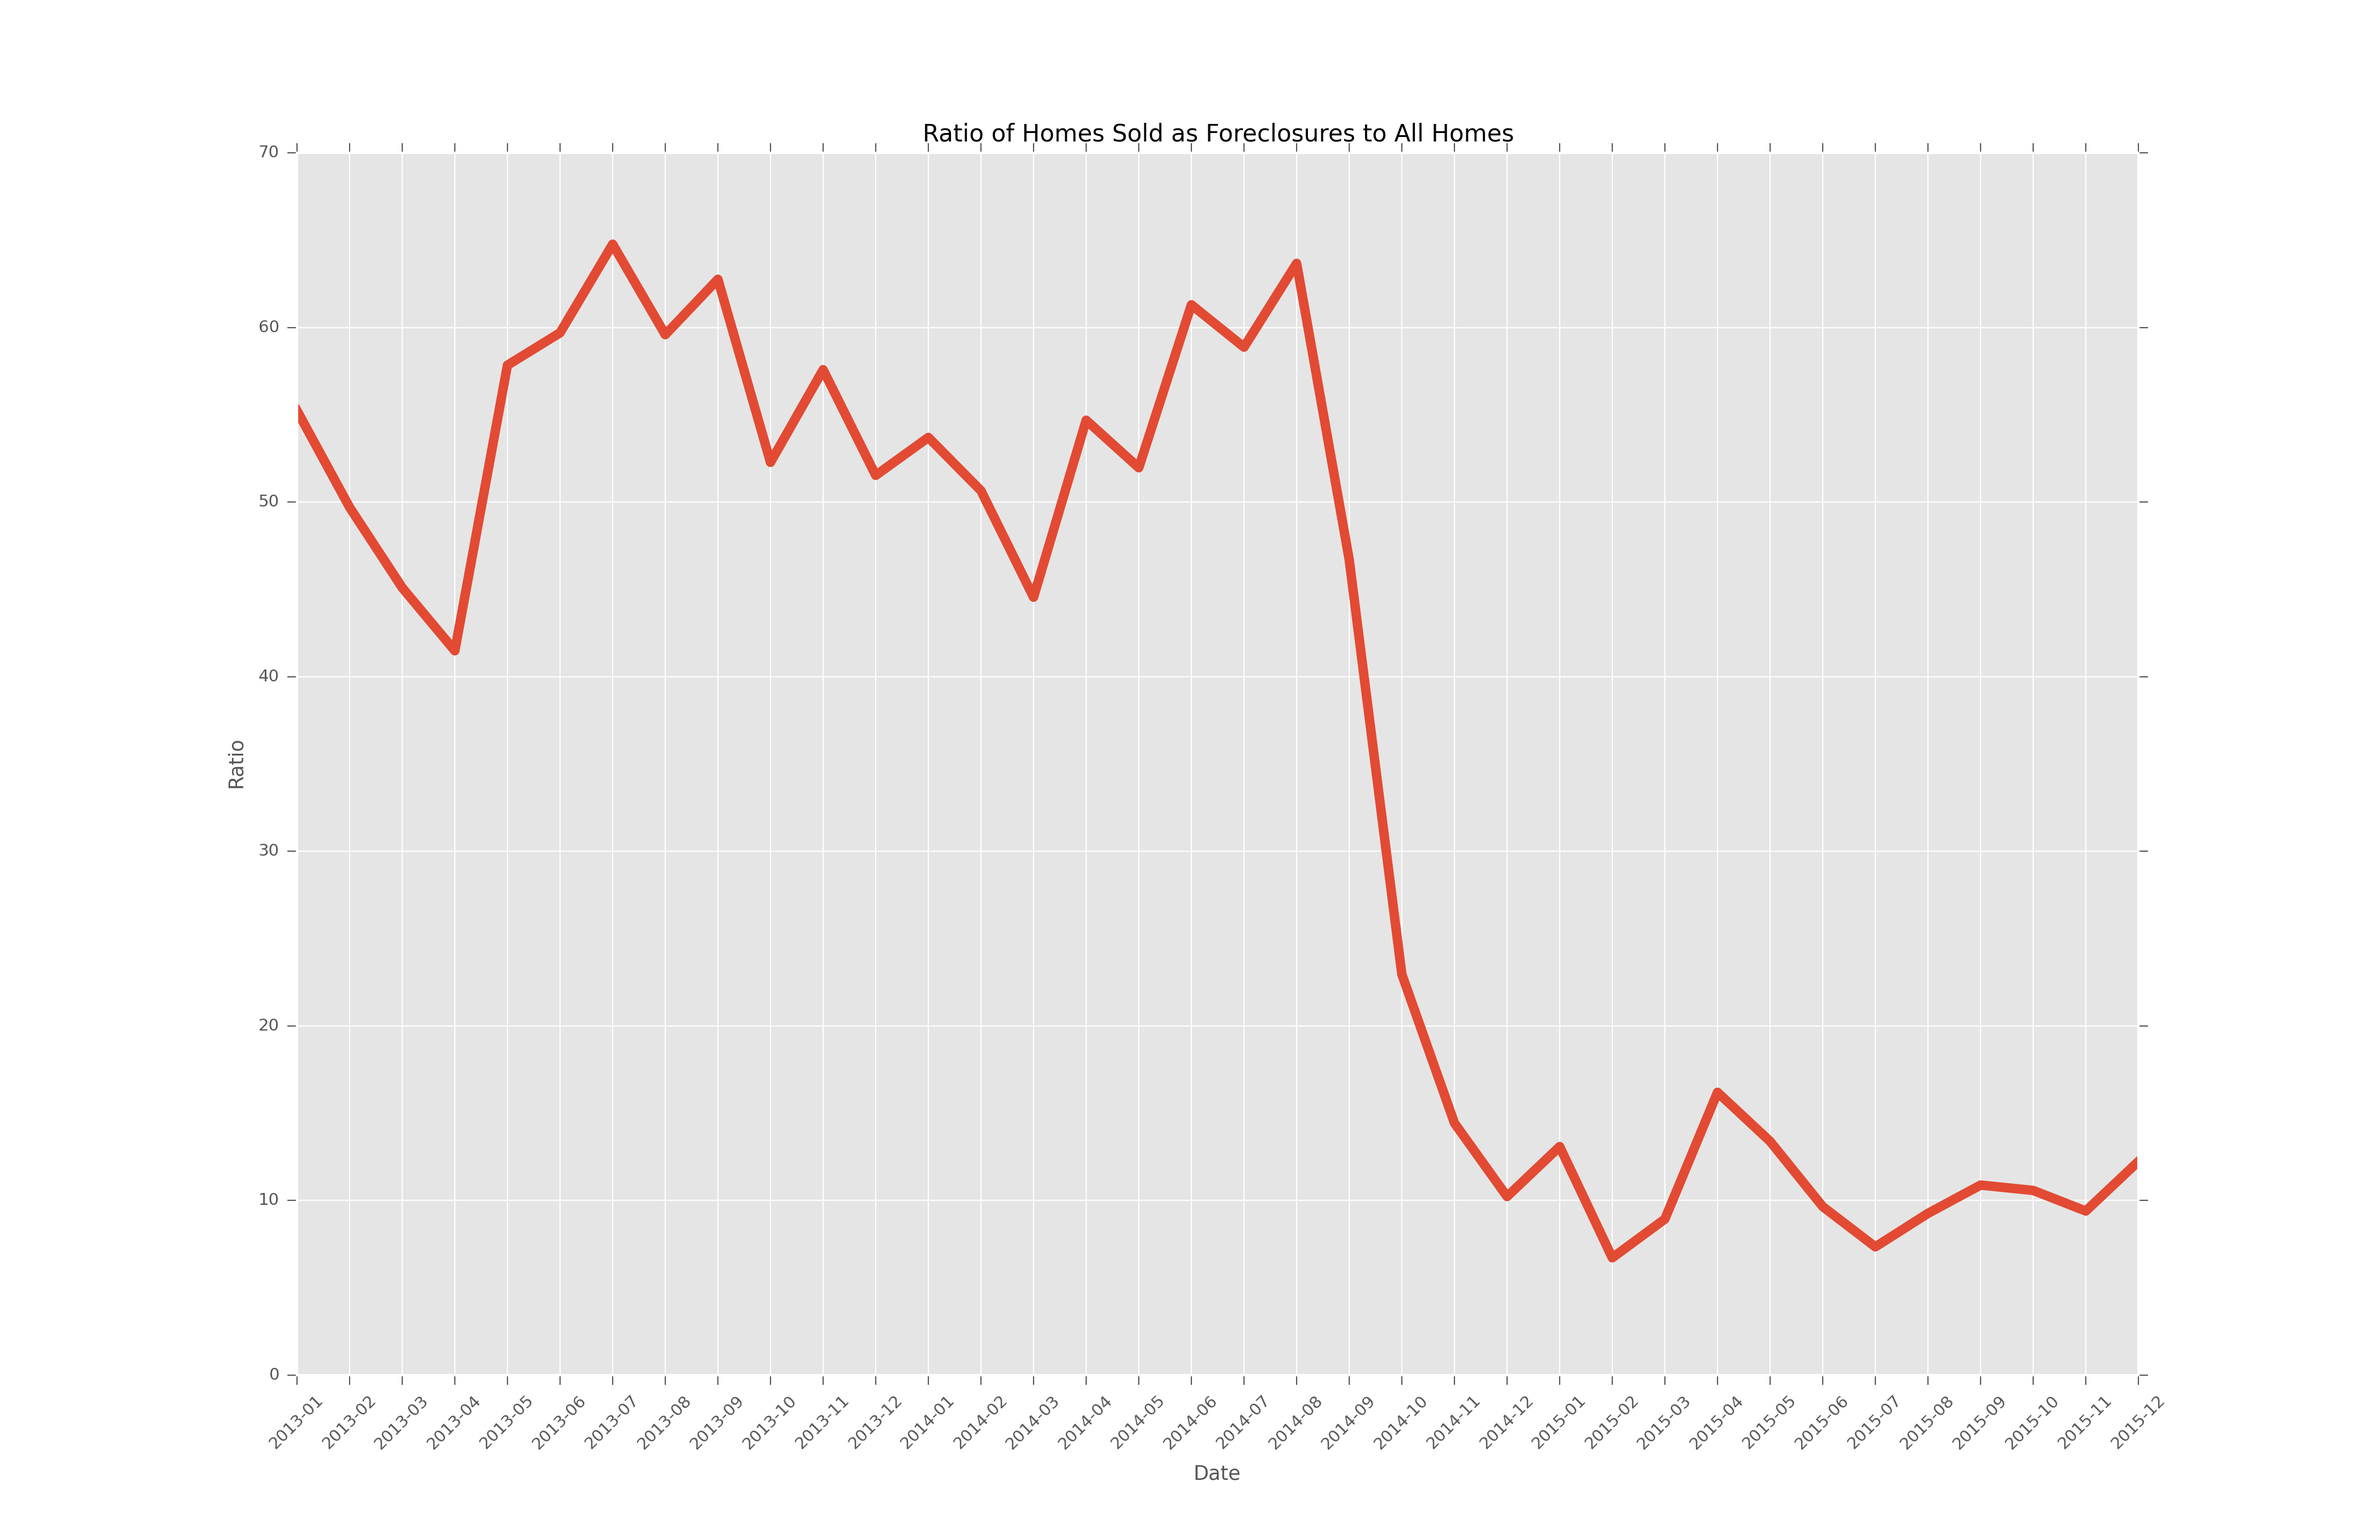
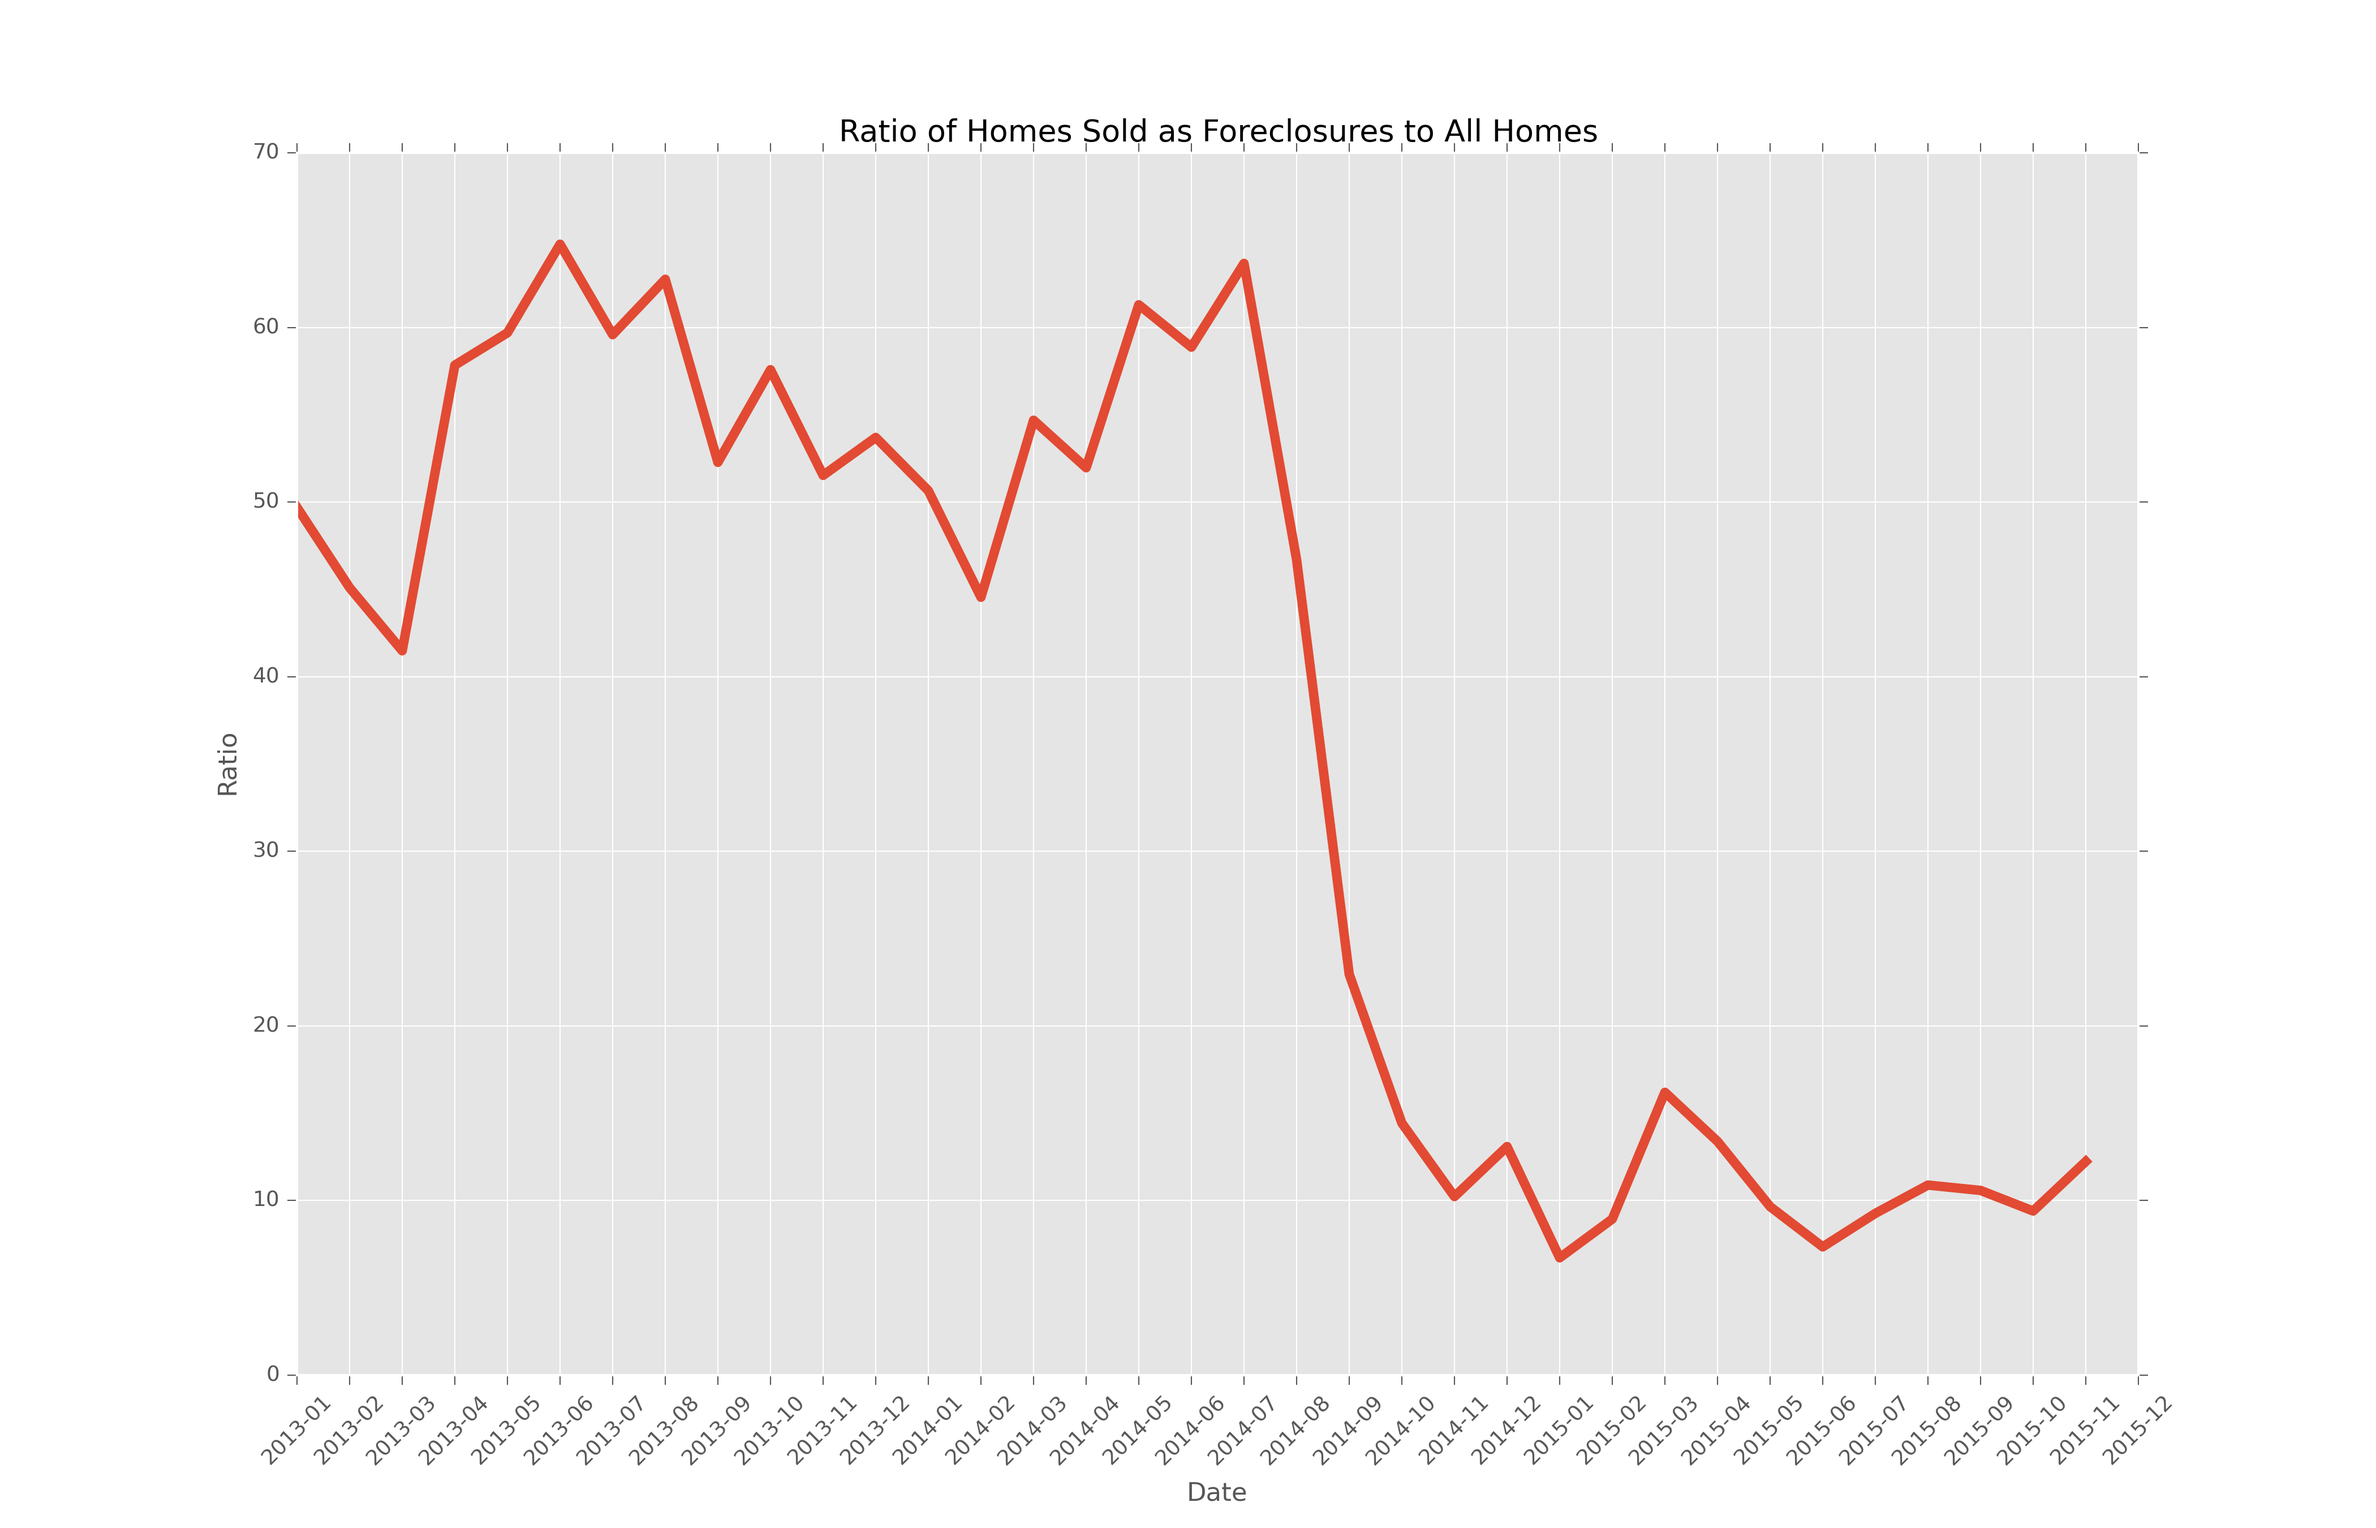
Finalish graphs
fixed up some labeling issues, and spotchecked the numbers

diff --git a/realty_data_assessment.py b/realty_data_assessment.py
@@ -18,7 +18,7 @@ plt.close()
 mpl.rcdefaults()
 mpl.rcParams['figure.figsize'] = 14, 9
 plt.style.use('ggplot')
-mpl.rcParams.update({'font.size': 7})
+mpl.rcParams.update({'font.size': 9})
 
 
 # location of unscrubbed (for knoxville) realty data, hundreds of MB, so excluded
@@ -98,15 +98,17 @@ for fname in file_names:
     if df.columns[col_count-1] != '2015-12':
         print "Not time series data"
     else:
-        y = range(0.5,36.5,1)
+        y = range(0,36)
         x = []
         #print fname
         labels = df.columns[col_count-36:col_count]
-        for i in range(col_count-37,col_count-1):
+        for i in range(col_count-36,col_count):
             #print i
             #pdb.set_trace()
             x.append(df.ix[0][i])
-            
+        
+        #y = [y+0.5 for y in y]        
+        
         plt.plot(y,x, linewidth = 4)
         plt.xlabel(file_name_dict[fname][0])
         plt.ylabel(file_name_dict[fname][1])
